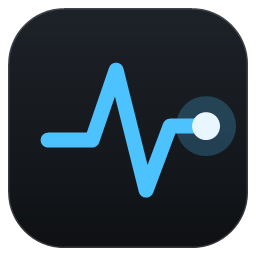
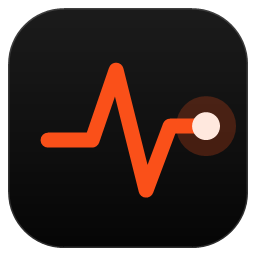
Visual em preto e laranja #FA5019
Superfícies pretas sem matiz no lugar do grafite azulado. O laranja da
marca (theme::ACCENT) passa a marcar a interface — seleção, item ativo,
links, logo e ícone do app — e a carga nas células, que era âmbar. A carga
não vira mais vermelho nos valores altos: vermelho é perigo, e o DANGER foi
puxado para o carmim para não se confundir com o laranja. Os gráficos
mantêm uma cor por recurso.

Changed region(s): [[0.1562, 0.2188, 0.9375, 0.7812]]

diff --git a/src/theme.rs b/src/theme.rs
@@ -1,27 +1,32 @@
 //! Tokens visuais e configuração do egui.
 //!
-//! Direção: instrumento de telemetria em grafite. As superfícies sobem poucos pontos
-//! de luminosidade a cada nível, as bordas são linhas finas translúcidas e a cor fica
-//! reservada para dado: cada recurso tem a sua, e a carga aparece como calor âmbar.
+//! Direção: instrumento de telemetria em preto. As superfícies sobem poucos pontos de
+//! luminosidade a cada nível, sem matiz, e as bordas são linhas finas translúcidas. A
+//! cor fica reservada: o laranja [`ACCENT`] marca o que é da interface (seleção, item
+//! ativo, links, marca) e a carga; cada recurso tem a sua cor nos gráficos.
 
 use egui::{Color32, CornerRadius, FontData, FontDefinitions, FontFamily, FontId, Margin, Shadow, Stroke, TextStyle};
 
-// Superfícies (grafite, do fundo para cima). O poço fica abaixo do fundo: campos recebem conteúdo.
-pub const WELL: Color32 = Color32::from_rgb(0x0A, 0x0B, 0x0D);
-pub const GRAPHITE_0: Color32 = Color32::from_rgb(0x0E, 0x10, 0x13);
-pub const GRAPHITE_1: Color32 = Color32::from_rgb(0x14, 0x17, 0x1B);
-pub const GRAPHITE_2: Color32 = Color32::from_rgb(0x1A, 0x1E, 0x23);
-pub const GRAPHITE_3: Color32 = Color32::from_rgb(0x22, 0x27, 0x2D);
+// Superfícies (preto neutro, do fundo para cima). O poço fica abaixo do fundo: campos recebem conteúdo.
+// Os nomes GRAPHITE_* ficaram da paleta anterior; o valor agora é preto sem matiz.
+pub const WELL: Color32 = Color32::from_rgb(0x05, 0x05, 0x05);
+pub const GRAPHITE_0: Color32 = Color32::from_rgb(0x0A, 0x0A, 0x0A);
+pub const GRAPHITE_1: Color32 = Color32::from_rgb(0x12, 0x12, 0x12);
+pub const GRAPHITE_2: Color32 = Color32::from_rgb(0x1A, 0x1A, 0x1A);
+pub const GRAPHITE_3: Color32 = Color32::from_rgb(0x24, 0x24, 0x24);
 
 // Linhas finas: somem quando não se procura por elas.
 pub const HAIRLINE: Color32 = Color32::from_rgba_premultiplied(18, 18, 18, 18);
 pub const HAIRLINE_STRONG: Color32 = Color32::from_rgba_premultiplied(32, 32, 32, 32);
 
-// Texto em quatro níveis.
-pub const INK: Color32 = Color32::from_rgb(0xE6, 0xE8, 0xEB);
-pub const INK_2: Color32 = Color32::from_rgb(0xA8, 0xAE, 0xB7);
-pub const INK_3: Color32 = Color32::from_rgb(0x76, 0x7D, 0x87);
-pub const INK_4: Color32 = Color32::from_rgb(0x4E, 0x54, 0x5C);
+// Texto em quatro níveis, cinzas neutros como o fundo.
+pub const INK: Color32 = Color32::from_rgb(0xEC, 0xEC, 0xEC);
+pub const INK_2: Color32 = Color32::from_rgb(0xAD, 0xAD, 0xAD);
+pub const INK_3: Color32 = Color32::from_rgb(0x7A, 0x7A, 0x7A);
+pub const INK_4: Color32 = Color32::from_rgb(0x52, 0x52, 0x52);
+
+/// Laranja da marca: seleção, item ativo, links, logo e a carga nas tabelas.
+pub const ACCENT: Color32 = Color32::from_rgb(0xFA, 0x50, 0x19);
 
 // Uma cor por recurso, a mesma em toda a interface.
 pub const CPU: Color32 = Color32::from_rgb(0x4C, 0xC2, 0xFF);
@@ -30,9 +35,10 @@ pub const DISK: Color32 = Color32::from_rgb(0xA3, 0xE3, 0x5A);
 pub const NETWORK: Color32 = Color32::from_rgb(0x2D, 0xD4, 0xBF);
 pub const GPU: Color32 = Color32::from_rgb(0xFF, 0x7E, 0xB6);
 
-/// Calor: quanto mais carga, mais âmbar.
-pub const HEAT: Color32 = Color32::from_rgb(0xFF, 0xB3, 0x47);
-pub const DANGER: Color32 = Color32::from_rgb(0xF2, 0x54, 0x5B);
+/// Calor: quanto mais carga, mais laranja.
+pub const HEAT: Color32 = ACCENT;
+/// Vermelho puxado para o carmim, para não se confundir com o laranja do acento.
+pub const DANGER: Color32 = Color32::from_rgb(0xE5, 0x38, 0x4F);
 pub const OK: Color32 = Color32::from_rgb(0x7B, 0xD8, 0x8F);
 
 pub const R_SM: u8 = 6;
@@ -90,9 +96,9 @@ pub fn apply(ctx: &egui::Context) {
         v.code_bg_color = WELL;
         v.warn_fg_color = HEAT;
         v.error_fg_color = DANGER;
-        v.hyperlink_color = CPU;
-        v.selection.bg_fill = CPU.gamma_multiply(0.18);
-        v.selection.stroke = Stroke::new(1.0, CPU);
+        v.hyperlink_color = ACCENT;
+        v.selection.bg_fill = ACCENT.gamma_multiply(0.16);
+        v.selection.stroke = Stroke::new(1.0, ACCENT);
         v.striped = false;
 
         let w = &mut v.widgets;
@@ -181,9 +187,9 @@ pub fn heat_fill(intensity: f32) -> Color32 {
         return Color32::TRANSPARENT;
     }
     // Linear e começando baixo: cargas pequenas mal aparecem, só as grandes chamam atenção.
-    let alpha = 0.04 + 0.44 * t;
-    let color = if t > 0.75 { lerp(HEAT, DANGER, (t - 0.75) / 0.25) } else { HEAT };
-    color.gamma_multiply(alpha)
+    // Só laranja, sem virar vermelho no alto: vermelho é perigo (finalizar, erro HTTP),
+    // e uma célula de memória cheia não é um erro.
+    HEAT.gamma_multiply(0.05 + 0.50 * t)
 }
 
 pub fn lerp(a: Color32, b: Color32, t: f32) -> Color32 {

diff --git a/src/ui/details.rs b/src/ui/details.rs
@@ -7,7 +7,7 @@ use crate::app::{self, App, View};
 use crate::format;
 use crate::ports::{Listener, Reply};
 use crate::sampler::ProcKey;
-use crate::theme::{self, CPU, HAIRLINE, INK, INK_2, INK_3, MEMORY, R_SM, WELL};
+use crate::theme::{self, ACCENT, CPU, HAIRLINE, INK, INK_2, INK_3, MEMORY, R_SM, WELL};
 use crate::ui::widgets::{self, ChartStyle, Layer};
 
 pub fn show(app: &mut App, ui: &mut Ui) {
@@ -91,7 +91,7 @@ fn body(app: &mut App, ui: &mut Ui) {
                 match &parent {
                     Some((pk, name)) => {
                         // Botão sem moldura em vez de `link`, que não corta nomes longos.
-                        let link = egui::Button::new(RichText::new(format!("{name} · {}", pk.pid)).font(theme::regular(12.5)).color(CPU))
+                        let link = egui::Button::new(RichText::new(format!("{name} · {}", pk.pid)).font(theme::regular(12.5)).color(ACCENT))
                             .frame(false)
                             .truncate();
                         if ui.add(link).on_hover_cursor(egui::CursorIcon::PointingHand).clicked() {
@@ -233,7 +233,7 @@ fn ports_section(app: &mut App, ui: &mut Ui, key: ProcKey, listening: &[&Listene
     for l in listening.iter().take(MAX) {
         let reply = app.port_status.get(&(l.port, l.pid)).and_then(|s| s.reply);
         ui.horizontal(|ui| {
-            let number = egui::Button::new(RichText::new(l.port.to_string()).font(theme::semibold(13.0)).color(CPU)).frame(false);
+            let number = egui::Button::new(RichText::new(l.port.to_string()).font(theme::semibold(13.0)).color(ACCENT)).frame(false);
             if ui.add(number).on_hover_cursor(egui::CursorIcon::PointingHand).on_hover_text("Ver na tela de portas").clicked() {
                 app.view = View::Ports;
                 app.select_port(key, l.port);

diff --git a/src/ui/sidebar.rs b/src/ui/sidebar.rs
@@ -6,7 +6,7 @@ use egui_phosphor::regular as icon;
 use crate::app::{App, View};
 use crate::format;
 use crate::sampler::Snapshot;
-use crate::theme::{self, CPU, DISK, GPU, GRAPHITE_1, GRAPHITE_2, INK, INK_2, INK_3, MEMORY, NETWORK, R_MD};
+use crate::theme::{self, ACCENT, CPU, DISK, GPU, GRAPHITE_1, GRAPHITE_2, INK, INK_2, INK_3, MEMORY, NETWORK, R_MD};
 use crate::ui::widgets::{self, ChartStyle, Layer};
 
 pub fn show(app: &mut App, ui: &mut Ui) {
@@ -145,9 +145,9 @@ fn logo_mark(ui: &Ui, rect: Rect) {
         pos2(r.left() + r.width() * 0.74, r.center().y - 1.0),
         pos2(r.right() - 2.0, r.center().y - 1.0),
     ];
-    p.line(pts.to_vec(), Stroke::new(1.6, CPU));
-    p.circle_filled(pts[5], 4.5, CPU.gamma_multiply(0.2));
-    p.circle_filled(pts[5], 2.0, CPU);
+    p.line(pts.to_vec(), Stroke::new(1.6, ACCENT));
+    p.circle_filled(pts[5], 4.5, ACCENT.gamma_multiply(0.2));
+    p.circle_filled(pts[5], 2.0, ACCENT);
 }
 
 fn nav_item(ui: &mut Ui, selected: bool, glyph: &str, label: &str, badge: &str) -> Response {
@@ -162,7 +162,7 @@ fn nav_item(ui: &mut Ui, selected: bool, glyph: &str, label: &str, badge: &str) 
     };
     p.rect_filled(rect, CornerRadius::same(R_MD), fill);
     if selected {
-        accent_bar(ui, rect, INK_2);
+        accent_bar(ui, rect, ACCENT);
     }
     let text_color = if selected { INK } else { INK_2 };
     p.text(pos2(rect.left() + 14.0, rect.center().y), Align2::LEFT_CENTER, glyph, theme::regular(16.0), text_color);

diff --git a/AGENTS.md b/AGENTS.md
@@ -135,9 +135,12 @@ de arquivo vêm traduzidas. Testes não podem supor nomes em inglês.
 
 # Visual
 
-- Tokens em `src/theme.rs`: superfícies grafite que sobem poucos pontos por nível,
-  bordas em linhas finas translúcidas, uma cor por recurso (CPU, memória, disco,
-  rede, GPU). Carga é sempre calor âmbar (`theme::heat_fill`), em qualquer coluna.
+- Cores do Fernando: **preto e laranja #FA5019**. Tokens em `src/theme.rs`:
+  superfícies pretas sem matiz que sobem poucos pontos por nível, bordas em linhas
+  finas translúcidas. O laranja (`theme::ACCENT`) marca a interface (seleção, item
+  ativo, links, logo e ícone do app) e a carga (`theme::heat_fill`), em qualquer
+  coluna. Cada recurso (CPU, memória, disco, rede, GPU) mantém a sua cor nos
+  gráficos. `DANGER` é carmim, para não se confundir com o laranja.
 - Assinatura: o ponto luminoso na ponta de todo gráfico (valor mais recente), que
   se repete no logo.
 - Fontes do próprio Windows (Segoe UI, Segoe UI Semibold, Cascadia Mono) e ícones
